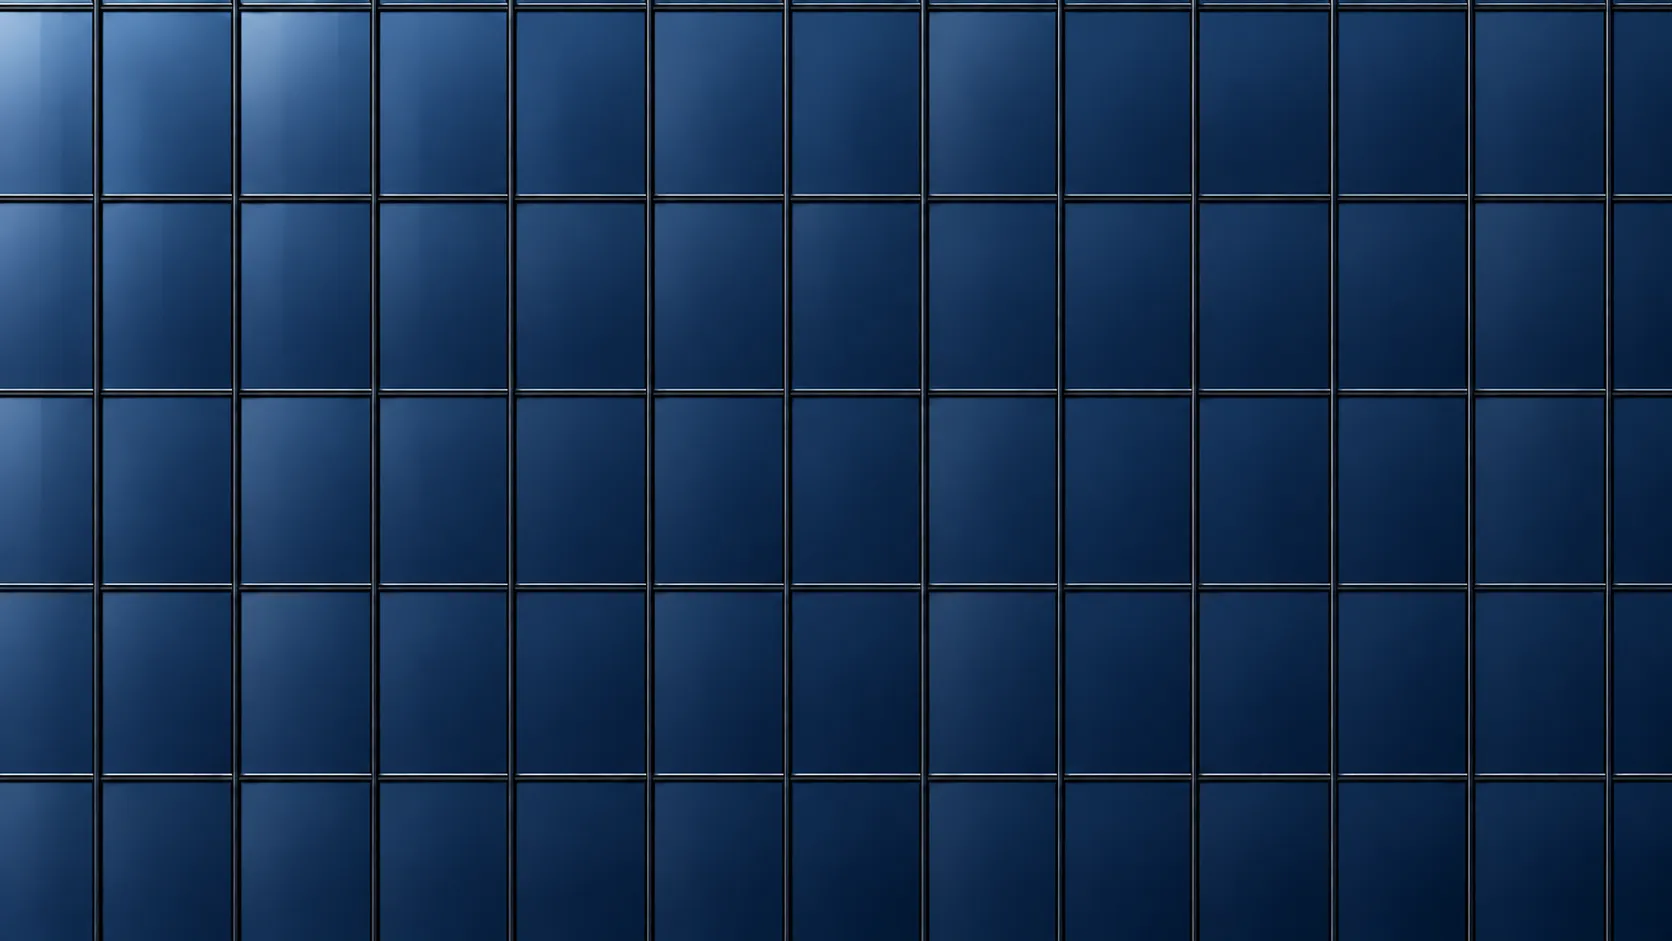
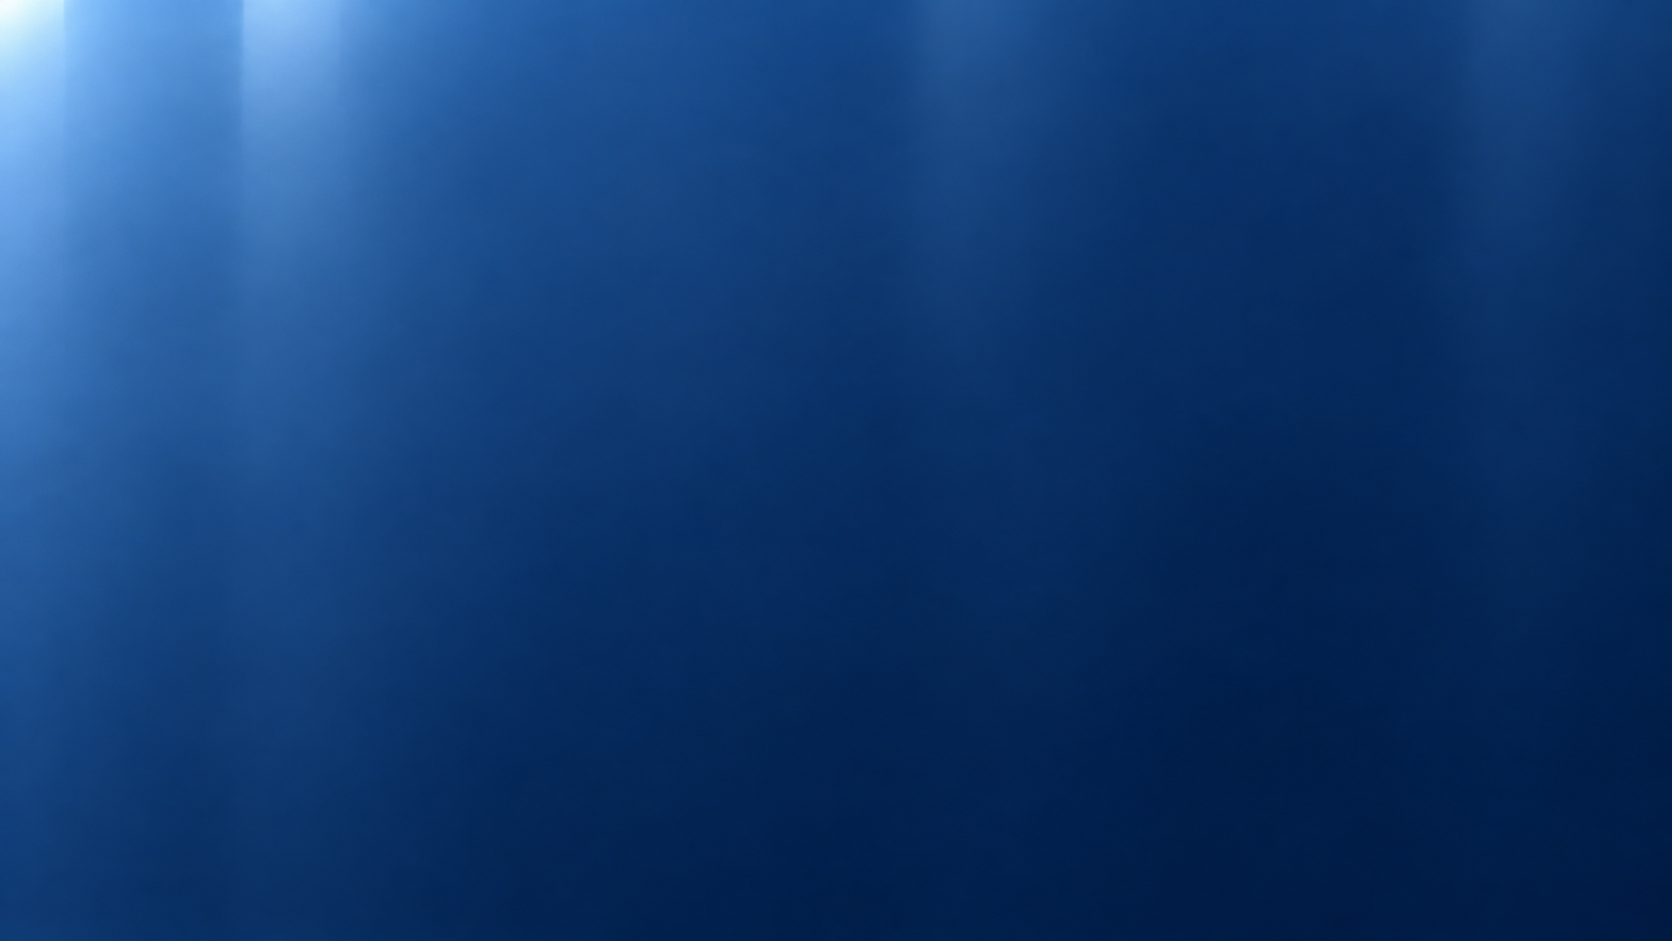
feat(MAT-007): replace gridded skyline glass with owner-optimized pure glass, defer mullions

diff --git a/src/game/world-generation/glass-surface-catalog.ts b/src/game/world-generation/glass-surface-catalog.ts
@@ -1,8 +1,8 @@
 /** MAT-007, WALL-03 photographic curtain-panel trial.
- * Image is an opaque grid with lighting-responsive specularity.
+ * Image is an opaque pure-glass colorway without baked structural divisions, with lighting-responsive specularity.
  * This is NOT a transparent or physically refractive curtain wall.
  * The original 10-style glass taxonomy includes patterned/wired/channel/block
- * systems; actual committed flat curtain-grid examples are colorway variants.
+ * systems; the current committed strip-free facade examples are colorway variants.
  */
 export const GLASS_FAMILY_ID = "WALL-03" as const;
 export const GLASS_SURFACE_IDS = ["GLS-01","GLS-02","GLS-03","GLS-04","GLS-05","GLS-06","GLS-07","GLS-08","GLS-09","GLS-10"] as const;
@@ -13,30 +13,31 @@ export interface GlassSurfaceAsset {
   readonly label: string;
   readonly path: string;
   readonly sourcePathOnMain: string;
-  readonly widthPx: number;
-  readonly heightPx: number;
+  readonly widthPx: number | null;
+  readonly heightPx: number | null;
   readonly bytes: number;
   readonly gitBlobSha: string;
   readonly status: "asset-committed";
 }
 export const GLASS_SURFACES = {
-  "GLS-01": {"id":"GLS-01","familyId":"WALL-03","label":"Neutral blue vision glass","path":"/assets/surfaces/glass/gls-01.webp","sourcePathOnMain":"public/Glass 1.webp","widthPx":1672,"heightPx":941,"bytes":30692,"gitBlobSha":"e321be6415763c9eb33331487d07880bdbdf31e6","status":"asset-committed"},
-  "GLS-02": {"id":"GLS-02","familyId":"WALL-03","label":"Smoked charcoal glass","path":"/assets/surfaces/glass/gls-02.webp","sourcePathOnMain":"public/Glass 2.webp","widthPx":1672,"heightPx":941,"bytes":26286,"gitBlobSha":"0c802813e42d2fbfd81f828ad4961d4905a38ff7","status":"asset-committed"},
-  "GLS-03": {"id":"GLS-03","familyId":"WALL-03","label":"Silver-neutral reflective glass","path":"/assets/surfaces/glass/gls-03.webp","sourcePathOnMain":"public/Glass 3.webp","widthPx":1672,"heightPx":941,"bytes":28200,"gitBlobSha":"59fbb891d9767e61d222bb924357c3b28e402954","status":"asset-committed"},
-  "GLS-04": {"id":"GLS-04","familyId":"WALL-03","label":"Pale aqua glass","path":"/assets/surfaces/glass/gls-04.webp","sourcePathOnMain":"public/Glass 4.webp","widthPx":1672,"heightPx":941,"bytes":42890,"gitBlobSha":"0e65298da5fcebc0f9f2ad162e2d90a71ac64693","status":"asset-committed"},
-  "GLS-05": {"id":"GLS-05","familyId":"WALL-03","label":"Teal corporate glass","path":"/assets/surfaces/glass/gls-05.webp","sourcePathOnMain":"public/Glass 5.webp","widthPx":1672,"heightPx":941,"bytes":31366,"gitBlobSha":"bdf11780299de2e64a4b600aa106ac5481770435","status":"asset-committed"},
-  "GLS-06": {"id":"GLS-06","familyId":"WALL-03","label":"Bronze-tinted glass","path":"/assets/surfaces/glass/gls-06.webp","sourcePathOnMain":"public/Glass 6.webp","widthPx":1672,"heightPx":941,"bytes":30552,"gitBlobSha":"a8a2be6096185e5be2c39cdaebb9bd2b9da5856c","status":"asset-committed"},
-  "GLS-07": {"id":"GLS-07","familyId":"WALL-03","label":"Midnight navy glass","path":"/assets/surfaces/glass/gls-07.webp","sourcePathOnMain":"public/Glass 7.webp","widthPx":1672,"heightPx":941,"bytes":38480,"gitBlobSha":"7b7ee56de5f9c6f256b76848a1d2869d73e5fae7","status":"asset-committed"},
-  "GLS-08": {"id":"GLS-08","familyId":"WALL-03","label":"Green-grey urban glass","path":"/assets/surfaces/glass/gls-08.webp","sourcePathOnMain":"public/Glass 8.webp","widthPx":1672,"heightPx":941,"bytes":39590,"gitBlobSha":"acb3fcaa305b083156f16cbe410d205ce0b8a998","status":"asset-committed"},
-  "GLS-09": {"id":"GLS-09","familyId":"WALL-03","label":"Icy blue glass","path":"/assets/surfaces/glass/gls-09.webp","sourcePathOnMain":"public/Glass 9.webp","widthPx":1672,"heightPx":941,"bytes":38616,"gitBlobSha":"866c4d62182f4c4ada5399a20d50125ce07335b8","status":"asset-committed"},
-  "GLS-10": {"id":"GLS-10","familyId":"WALL-03","label":"Warm grey glass","path":"/assets/surfaces/glass/gls-10.webp","sourcePathOnMain":"public/Glass 10.webp","widthPx":1672,"heightPx":941,"bytes":32222,"gitBlobSha":"42ef211e8e31d3536801cf9adc55d63f8fead9d9","status":"asset-committed"},
+  "GLS-01": {"id":"GLS-01","familyId":"WALL-03","label":"Neutral blue vision glass","path":"/assets/surfaces/glass/gls-01.webp","sourcePathOnMain":"public/Glass 1.webp","widthPx":null,"heightPx":null,"bytes":1130340,"gitBlobSha":"63e28510351276f89779059ba4d0cc31f3fe14a9","status":"asset-committed"},
+  "GLS-02": {"id":"GLS-02","familyId":"WALL-03","label":"Smoked charcoal glass","path":"/assets/surfaces/glass/gls-02.webp","sourcePathOnMain":"public/Glass 2.webp","widthPx":null,"heightPx":null,"bytes":1146512,"gitBlobSha":"2bf577e231def28f8b4f58edf8a2cbdd4996c249","status":"asset-committed"},
+  "GLS-03": {"id":"GLS-03","familyId":"WALL-03","label":"Silver-neutral reflective glass","path":"/assets/surfaces/glass/gls-03.webp","sourcePathOnMain":"public/Glass 3.webp","widthPx":null,"heightPx":null,"bytes":1128766,"gitBlobSha":"56f7be1b468f103b2ceecbb9226e1d00feab4834","status":"asset-committed"},
+  "GLS-04": {"id":"GLS-04","familyId":"WALL-03","label":"Pale aqua glass","path":"/assets/surfaces/glass/gls-04.webp","sourcePathOnMain":"public/Glass 4.webp","widthPx":null,"heightPx":null,"bytes":1092460,"gitBlobSha":"18fdc7ffeb99b17686512614c90059925b06009e","status":"asset-committed"},
+  "GLS-05": {"id":"GLS-05","familyId":"WALL-03","label":"Teal corporate glass","path":"/assets/surfaces/glass/gls-05.webp","sourcePathOnMain":"public/Glass 5.webp","widthPx":null,"heightPx":null,"bytes":1087504,"gitBlobSha":"51c15e0c190761361a1d962198fc26ad2adff449","status":"asset-committed"},
+  "GLS-06": {"id":"GLS-06","familyId":"WALL-03","label":"Bronze-tinted glass","path":"/assets/surfaces/glass/gls-06.webp","sourcePathOnMain":"public/Glass 6.webp","widthPx":null,"heightPx":null,"bytes":1189218,"gitBlobSha":"90029f12d85c3f55cea6df0e0bf255bdfc3f9310","status":"asset-committed"},
+  "GLS-07": {"id":"GLS-07","familyId":"WALL-03","label":"Midnight navy glass","path":"/assets/surfaces/glass/gls-07.webp","sourcePathOnMain":"public/Glass 7.webp","widthPx":null,"heightPx":null,"bytes":1098142,"gitBlobSha":"1f2c8b0f99c0f357a875da98431ae0a97150fc85","status":"asset-committed"},
+  "GLS-08": {"id":"GLS-08","familyId":"WALL-03","label":"Green-grey urban glass","path":"/assets/surfaces/glass/gls-08.webp","sourcePathOnMain":"public/Glass 8.webp","widthPx":null,"heightPx":null,"bytes":1105606,"gitBlobSha":"f02a9dc208631ba4880cdc4c4d3c4b67182f2a30","status":"asset-committed"},
+  "GLS-09": {"id":"GLS-09","familyId":"WALL-03","label":"Icy blue glass","path":"/assets/surfaces/glass/gls-09.webp","sourcePathOnMain":"public/Glass 9.webp","widthPx":null,"heightPx":null,"bytes":1117930,"gitBlobSha":"3e19c18c115cadfcbd348e7dd9dc1d639fe2cb29","status":"asset-committed"},
+  "GLS-10": {"id":"GLS-10","familyId":"WALL-03","label":"Warm grey glass","path":"/assets/surfaces/glass/gls-10.webp","sourcePathOnMain":"public/Glass 10.webp","widthPx":null,"heightPx":null,"bytes":1110404,"gitBlobSha":"2199b0905106b90eadadbe28f168f4b95a08fe62","status":"asset-committed"},
 } as const satisfies Record<GlassSurfaceId, GlassSurfaceAsset>;
 export function isGlassSurfaceId(value: string): value is GlassSurfaceId {
   return Object.prototype.hasOwnProperty.call(GLASS_SURFACES,value);
 }
-/** An image tile has roughly 12 mullion bays x five storey bands.
- * Repeat period = 27.0m x ~15.2m. It yields approximately 2.25m
- * pane width and ~3.04m floor bands; actual source pixel ratio is exact.
+/** MAT-007 glass-only comparison: preserve the original wide-facade UV repeat
+ * (27m x ~15.20m) as a controlled rendering baseline. No mullions or seams
+ * are baked into these materials. Physical frame geometry is NOT added here.
+ * Preview tiling/lighting at close range before choosing a future repeat.
  */
 export const GLASS_TILE_WIDTH_METRES = 27;
 export const GLASS_TILE_METRES = Object.freeze({

diff --git a/src/test/glass-south-ward-field-trial.test.ts b/src/test/glass-south-ward-field-trial.test.ts
@@ -21,19 +21,33 @@ const towerIds = ["sw-fl-skyline-west","sw-fl-skyline-east"];
 function dimensions(bytes: Buffer) {
   expect(bytes.toString("ascii",0,4)).toBe("RIFF");
   expect(bytes.toString("ascii",8,12)).toBe("WEBP");
-  expect(bytes.toString("ascii",12,16)).toBe("VP8X");
-  return {width: 1+bytes[24]!+(bytes[25]!<<8)+(bytes[26]!<<16),
-    height: 1+bytes[27]!+(bytes[28]!<<8)+(bytes[29]!<<16)};
+  const encoding=bytes.toString("ascii",12,16);
+  if (encoding==="VP8X") return {
+    width: 1+bytes[24]!+(bytes[25]!<<8)+(bytes[26]!<<16),
+    height: 1+bytes[27]!+(bytes[28]!<<8)+(bytes[29]!<<16)
+  };
+  if (encoding==="VP8 ") return {
+    width: bytes.readUInt16LE(26)&0x3fff,
+    height: bytes.readUInt16LE(28)&0x3fff
+  };
+  if (encoding==="VP8L") {
+    const packed=bytes.readUInt32LE(21);
+    return {width: 1+(packed&0x3fff),height: 1+((packed>>>14)&0x3fff)};
+  }
+  throw new Error("Unsupported WebP header: "+encoding);
 }
 
 describe("MAT-007 South Ward image curtain-wall towers", () => {
-  it("records ten exact owner's glass blobs and measured 1672x941 resolution", () => {
+  it("verifies all ten replacement owner-committed glass blobs and wide texture aspect", () => {
     expect(GLASS_SURFACE_IDS).toHaveLength(10);
     for (const id of GLASS_SURFACE_IDS) {
       const entry = GLASS_SURFACES[id];
       const bytes = readFileSync(join(process.cwd(),"public",entry.path.slice(1)));
       expect(bytes.length).toBe(entry.bytes);
-      expect(dimensions(bytes)).toEqual({width:1672,height:941});
+      const {width,height}=dimensions(bytes);
+      expect(width).toBeGreaterThanOrEqual(1600);
+      expect(height).toBeGreaterThanOrEqual(900);
+      expect(width/height).toBeCloseTo(16/9,1);
       expect(createHash("sha1").update(Buffer.from("blob "+bytes.length+"\0"))
         .update(bytes).digest("hex")).toBe(entry.gitBlobSha);
     }

diff --git a/src/game/world-generation/building-generator.ts b/src/game/world-generation/building-generator.ts
@@ -86,7 +86,7 @@ export function generateBuilding(
   const plan = planBuilding(spec, context.generatorVersion);
   const interaction = planBuildingInteraction(spec, plan);
   // Curtain towers cannot inherit downpipes, punched-window trim or pseudo
-  // masonry cornices. Their grid mullions exist in the visual surface sample.
+  // masonry cornices. This comparison deliberately has no baked or 3D mullions.
   const detailPlan = context.enableFacadeDetails && !isGlassTower(spec.id)
     ? planFacadeDetails(spec, plan) : { primitives: [], decals: [] };
   const batchingMode = context.batchingMode ?? "individual";
@@ -139,8 +139,8 @@ export function generateBuilding(
           scene, materialRecipe(spec, context.generatorVersion, "wall"),
           "experiment:glass-" + glassSurfaceId + ":" + spec.id,
           GLASS_SURFACES[glassSurfaceId].path);
-        // The image is only the fixed panel grid/tint. Local light interaction
-        // comes from the scene; no sky/cloud reflection is baked into it.
+        // This image provides pure glass tint and soft light sheen only; no
+        // frame/mullion geometry or cloud/skyline reflections are baked in.
         experimentalGlass.material.specularColor = new Color3(0.64, 0.70, 0.78);
         experimentalGlass.material.specularPower = 112;
       }

diff --git a/documentations/Research/GTD-RND-MAT-007 Glass Family and Windowless South Ward Tower Field Trial - 2026-10-13.md b/documentations/Research/GTD-RND-MAT-007 Glass Family and Windowless South Ward Tower Field Trial - 2026-10-13.md
@@ -49,3 +49,31 @@ Automated checks: original immutable blob SHAs and measured dimensions; exactly 
 Field QA pending owner: actual curtain-grid appearance at street/rooftop distance, day/night reflections and highlights, image tiling at outer corners and podium transitions, no phantom window frames, no residual timber, no GPU/draw-call regressions and acceptable mobile clarity. Do not claim full physical glass or optical reality based on flat facade photographs.
 
 **Release state:** visual research trial only. No merge to `main` or implementation of new geography/ambient traffic without explicit further instruction. The GTD-WORLD-003 building-material and vehicle-physics gates remain in force.
+
+
+## 6. MAT-007 continuation — pure-glass/no-strip comparison (2026-10-13)
+
+**Scope:** owner-directed research preview on this branch. The earlier grid-image state in sections 1–5 is historical; this section supersedes its texture/provenance descriptions for the latest preview.
+
+The owner committed ten new optimized **unframed** glass WebPs to `main` in commit `1962cc060f066991ba1f338ab4466bc3e8f20553` under `public/Glass 1.webp` through `public/Glass 10.webp`. This branch imports the **exact Git blobs** into `public/assets/surfaces/glass/gls-01.webp` through `gls-10.webp`, replacing the ten earlier embedded-grid WebPs while preserving corresponding GLS colorway identities and the two-tower mapping (west GLS-01, east GLS-03; east focus control still supports all ten).
+
+Only glass surfaces change: **no horizontal or vertical strip images, no new procedural mullions, no separate window geometry, no changes to the building massing, doors, collision, player, physics, brick, wood, or vehicle systems**. The building shell retains the previous UV repeat period solely for an apples-to-apples visual test. Once judged in-game, a later authorized stage can add 3D architectural framing with measurable depth.
+
+Updated manifest and registry store each owner-uploaded blob SHA and encoded byte count; prior 1672x941 dimensions are not carried forward as proven properties of the newly optimized files. Tests now read the replacement WebP headers in the build/test workspace and accept VP8X, VP8, and VP8L encodings, validating image dimensions, wide aspect and Git blob identity. The contents are image-derived glass-look shaders with Babylon scene-light specularity, not a physical optical transmission model.
+
+**Owner acceptance gate:** compare unframed glass at street and rooftop distances, in day and night conditions. Only add real 3D frame geometry after inspection and separate authorization. **Do not merge to `main` as part of this comparison.**
+
+### Replacement asset provenance
+
+| Glass ID | Source on main | Blob SHA | Bytes |
+| --- | --- | --- | --- |
+| GLS-01 | `public/Glass 1.webp` | `63e28510351276f89779059ba4d0cc31f3fe14a9` | 1130340 |
+| GLS-02 | `public/Glass 2.webp` | `2bf577e231def28f8b4f58edf8a2cbdd4996c249` | 1146512 |
+| GLS-03 | `public/Glass 3.webp` | `56f7be1b468f103b2ceecbb9226e1d00feab4834` | 1128766 |
+| GLS-04 | `public/Glass 4.webp` | `18fdc7ffeb99b17686512614c90059925b06009e` | 1092460 |
+| GLS-05 | `public/Glass 5.webp` | `51c15e0c190761361a1d962198fc26ad2adff449` | 1087504 |
+| GLS-06 | `public/Glass 6.webp` | `90029f12d85c3f55cea6df0e0bf255bdfc3f9310` | 1189218 |
+| GLS-07 | `public/Glass 7.webp` | `1f2c8b0f99c0f357a875da98431ae0a97150fc85` | 1098142 |
+| GLS-08 | `public/Glass 8.webp` | `f02a9dc208631ba4880cdc4c4d3c4b67182f2a30` | 1105606 |
+| GLS-09 | `public/Glass 9.webp` | `3e19c18c115cadfcbd348e7dd9dc1d639fe2cb29` | 1117930 |
+| GLS-10 | `public/Glass 10.webp` | `2199b0905106b90eadadbe28f168f4b95a08fe62` | 1110404 |
